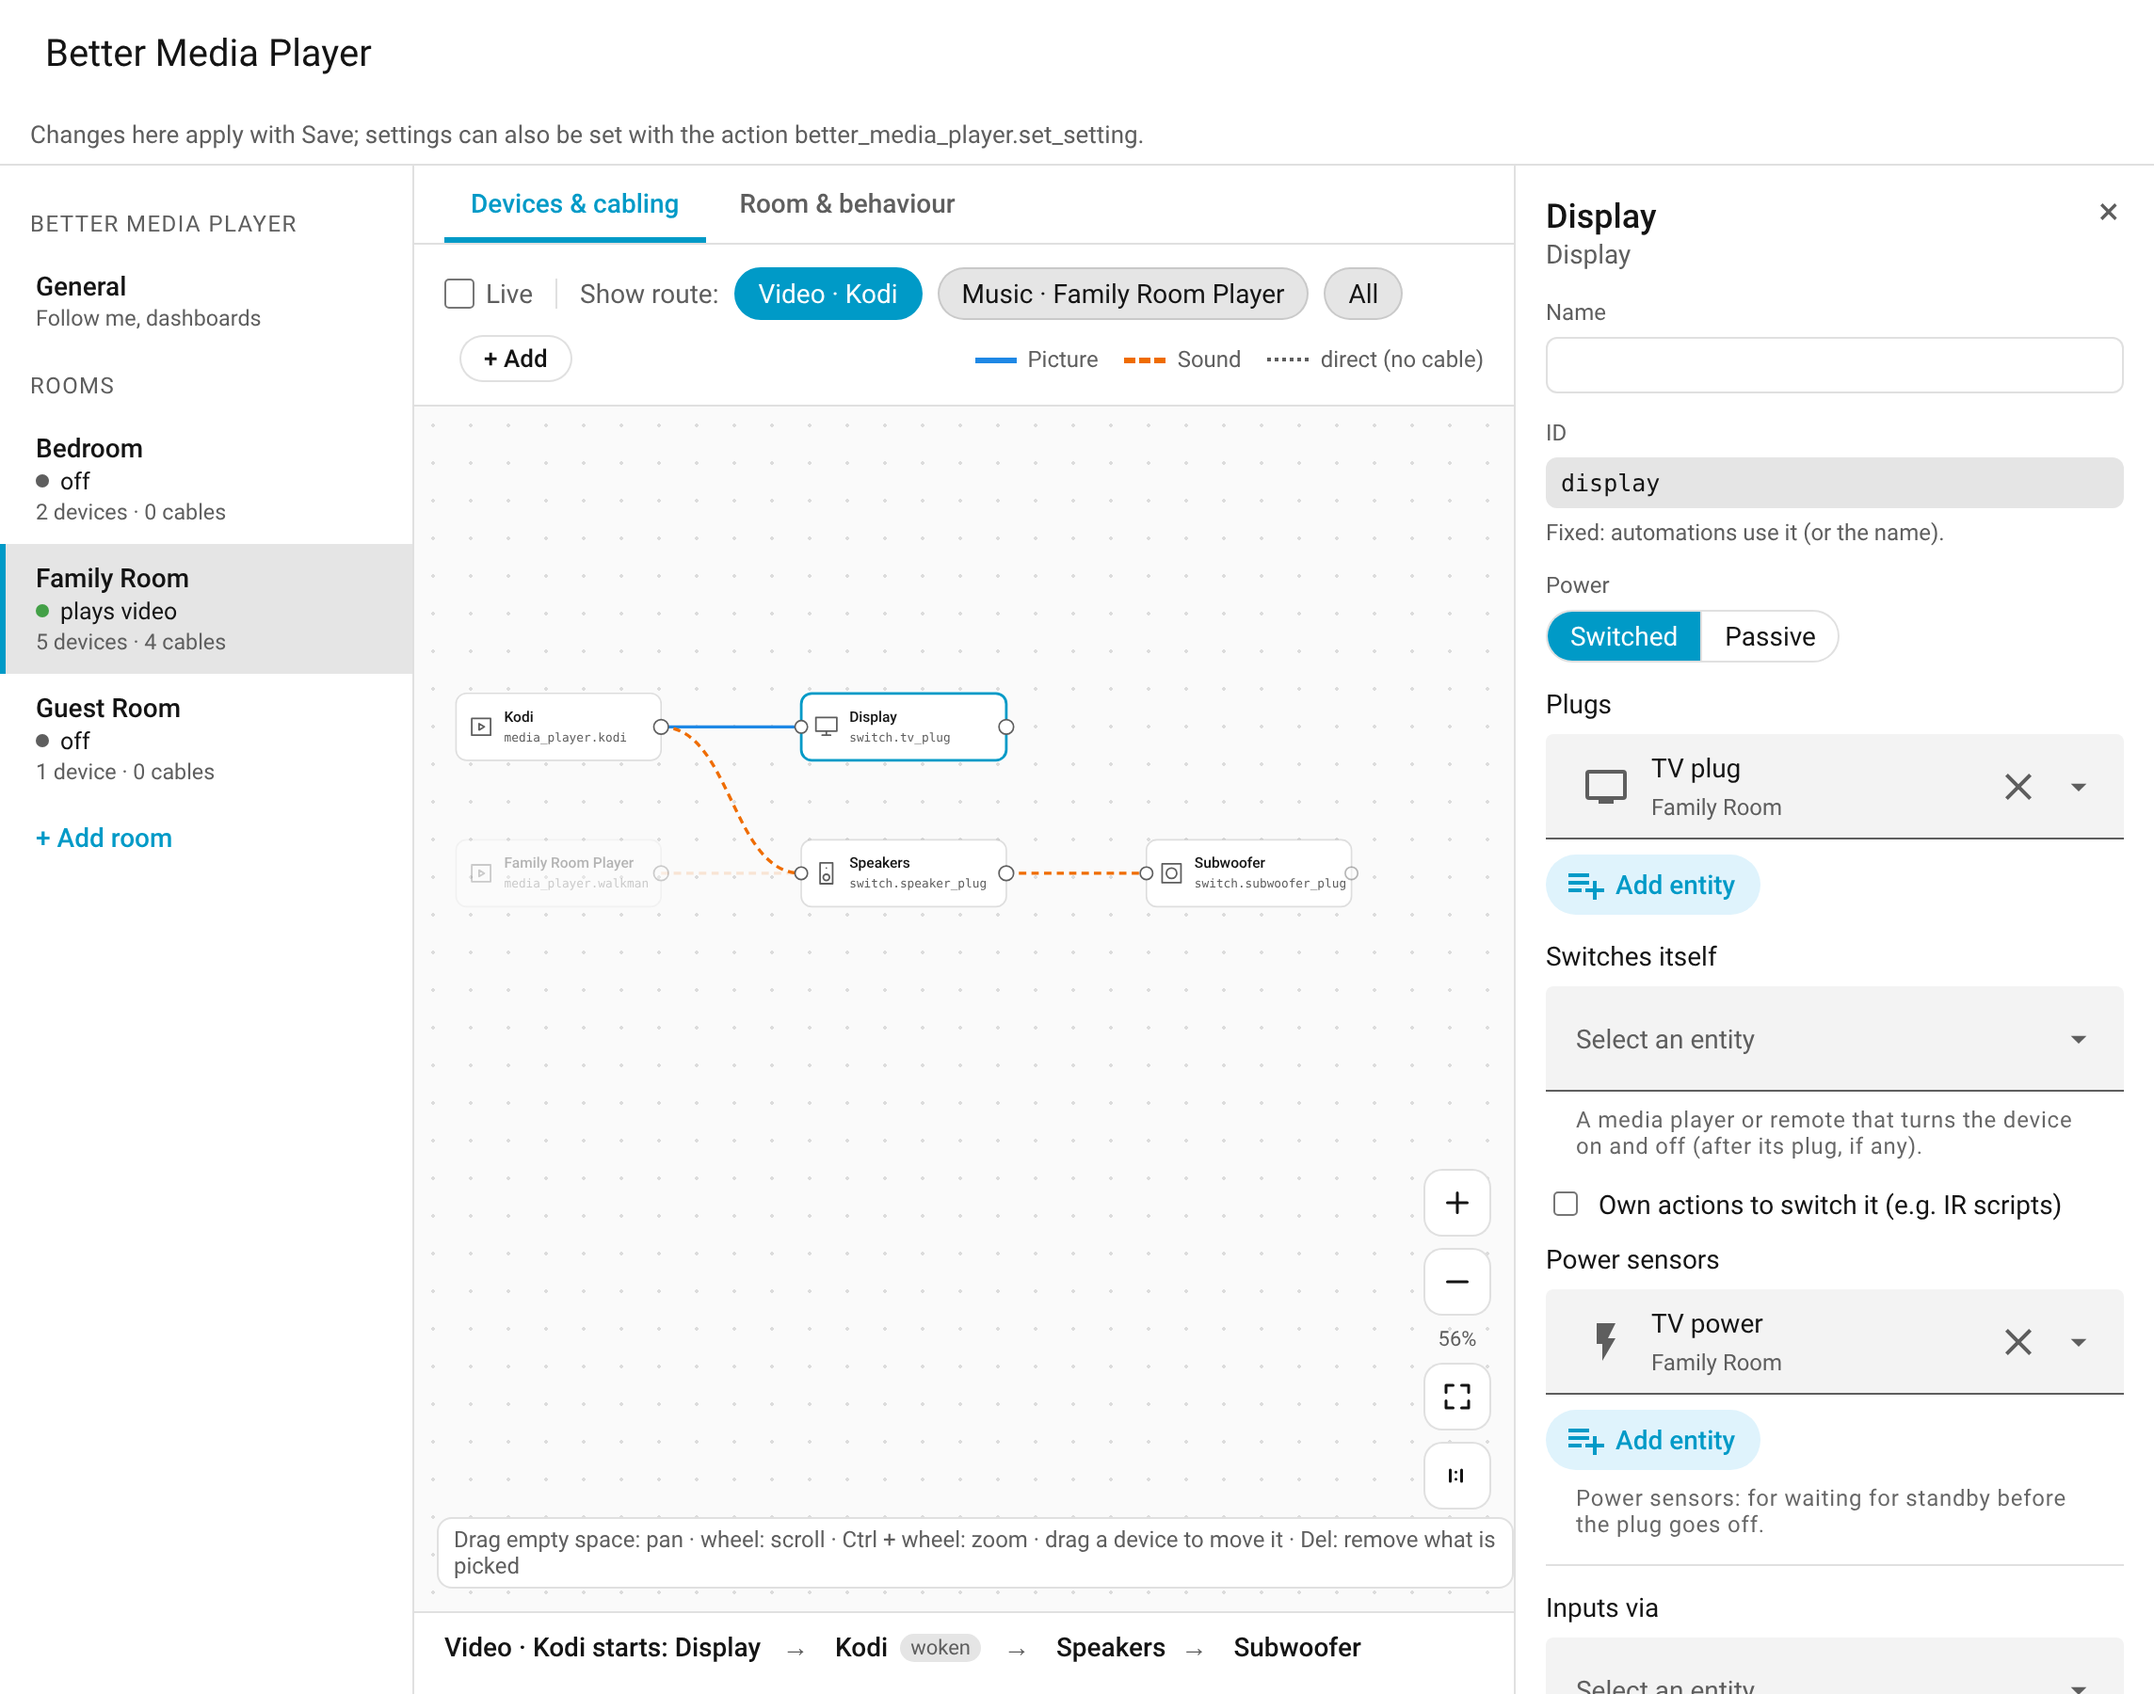
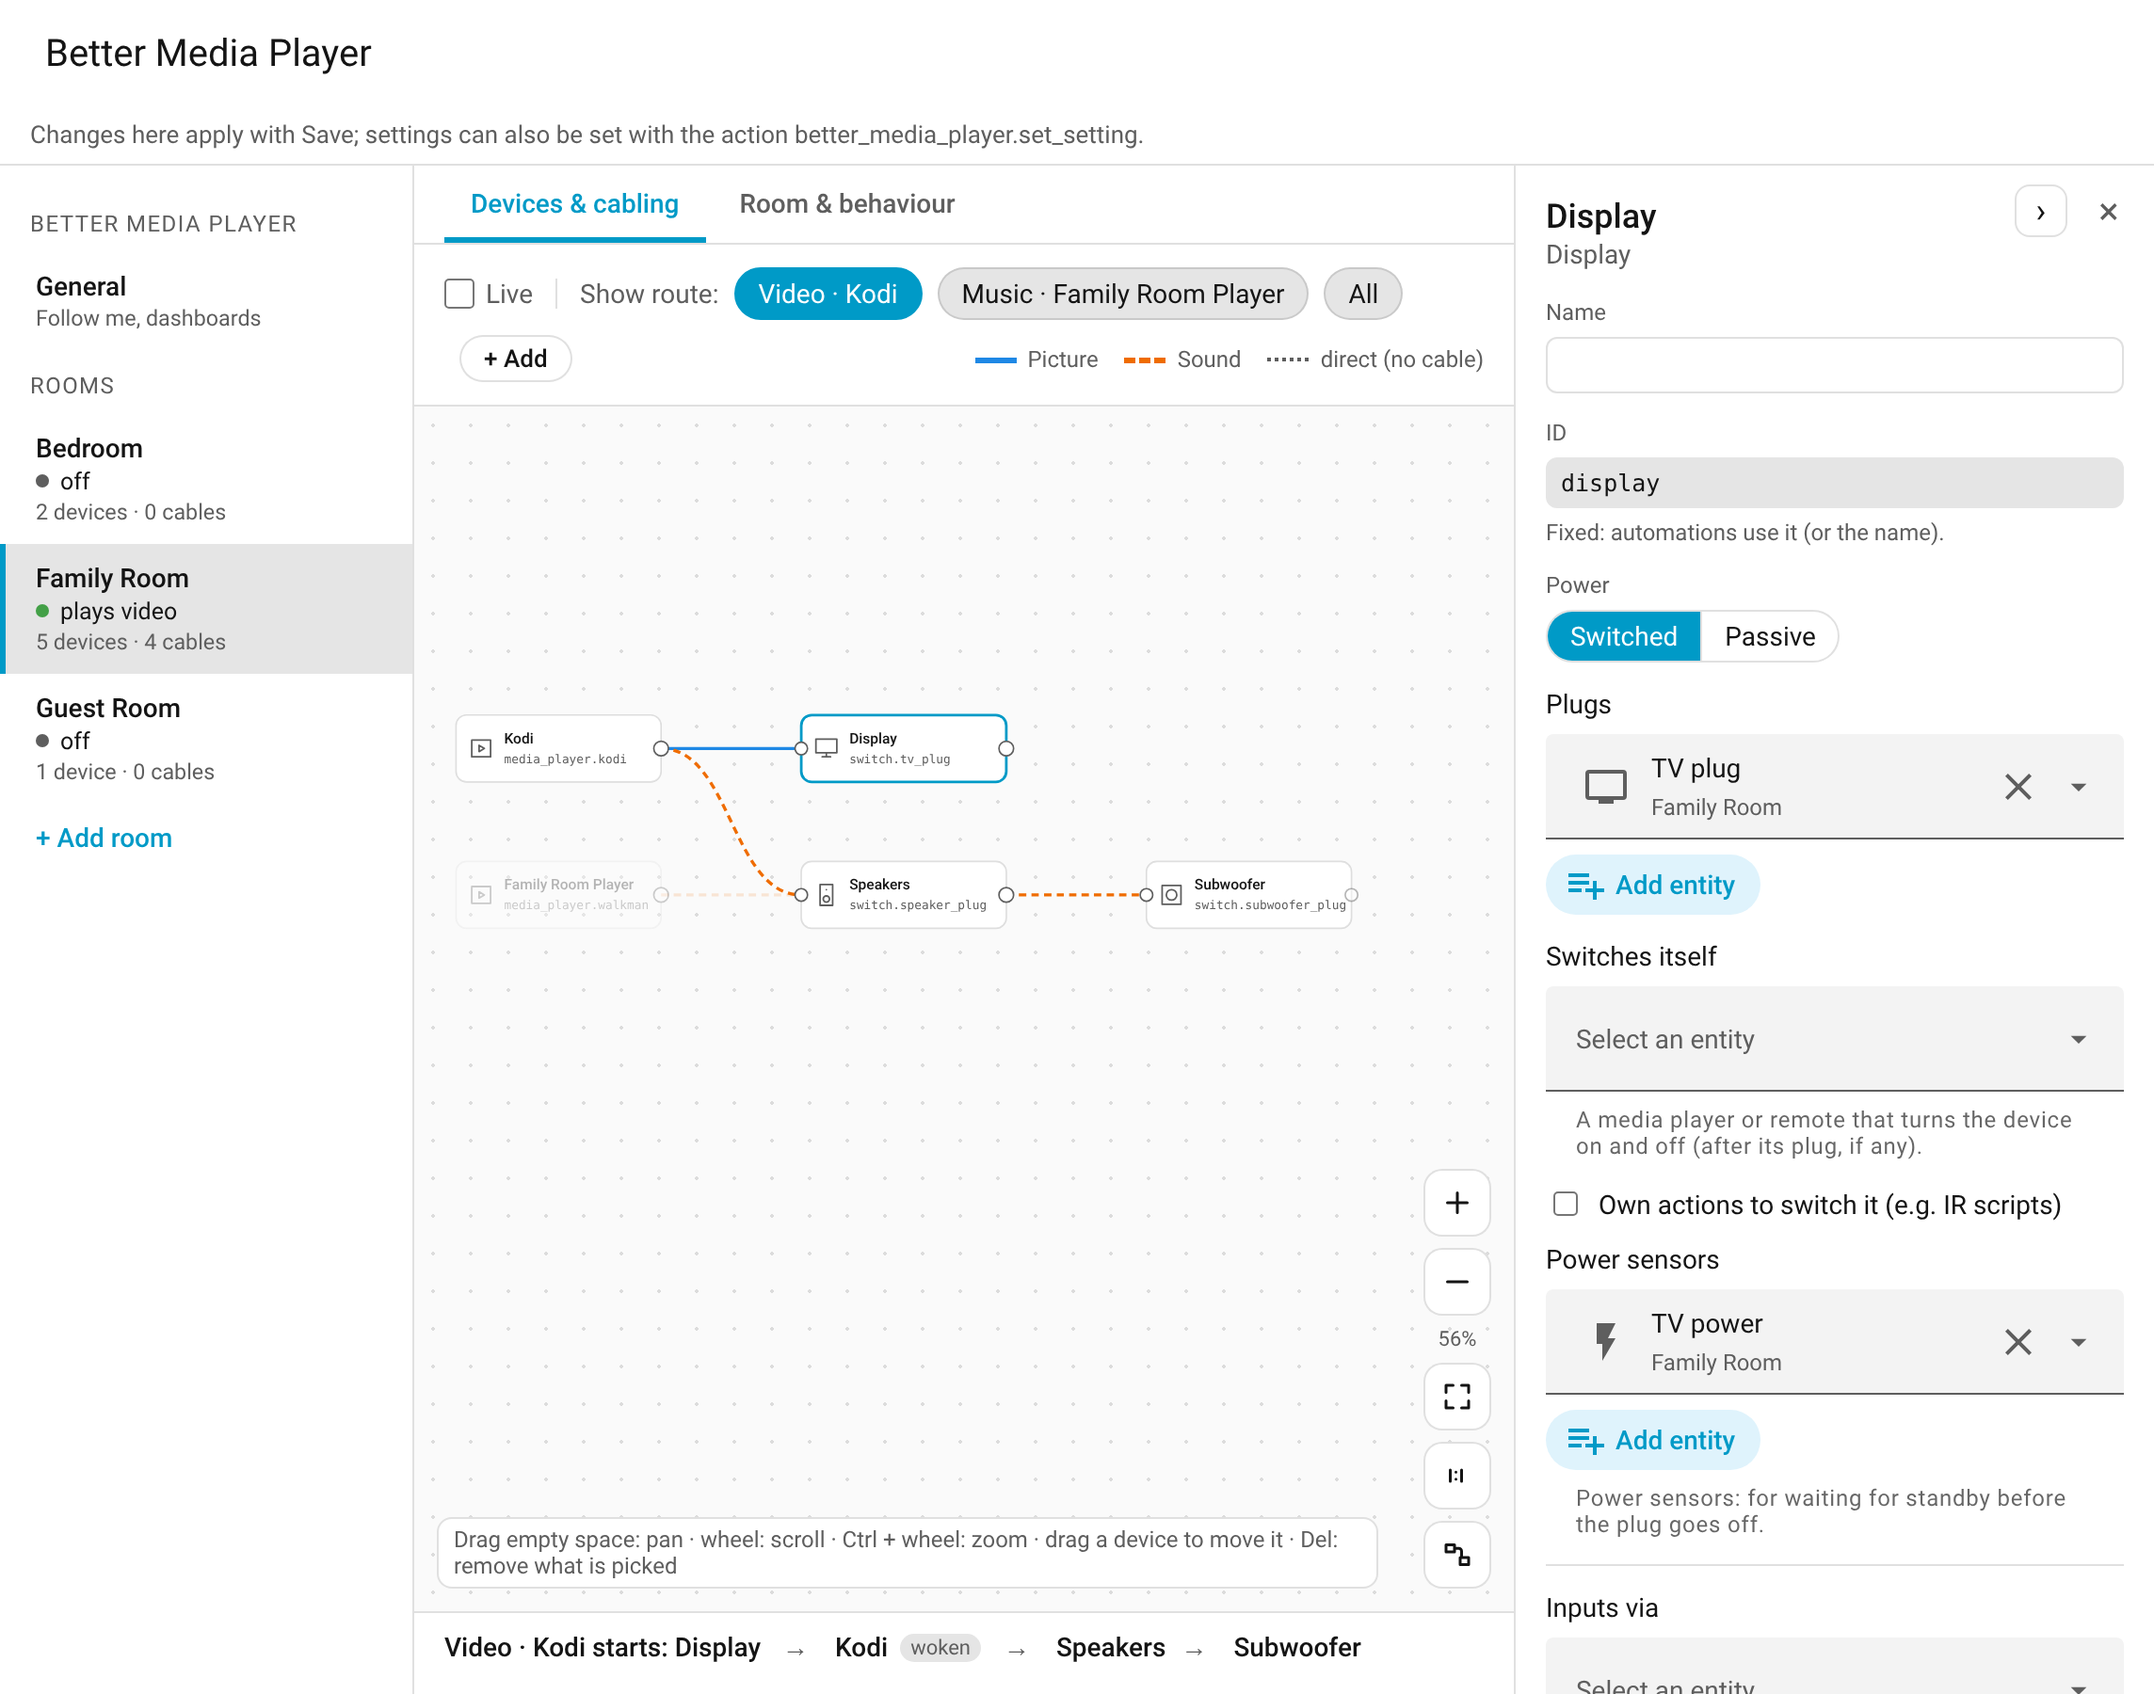
Docs: panel screenshots with the fold button and the hint beside the zoom
Claude-Session: https://claude.ai/code/session_01Mgztzm6dmHdgQHQYnCgpdp

diff --git a/README.md b/README.md
@@ -42,7 +42,7 @@ It is a custom integration in the spirit of Better Thermostat: you tell it what 
 
 A page of its own in Home Assistant's sidebar, where the rooms are set up: every room as a drawing – its players, its devices, how they are cabled, and what each player needs when it starts – with the details of each device and the room's settings, checked before they are saved. [More about the panel](https://github.com/financelurker/ha-better-media-player/blob/main/docs/designer.md).
 
-![The panel: a room's devices and cables, the video's route highlighted](https://raw.githubusercontent.com/financelurker/ha-better-media-player/main/docs/images/panel.png?v=9661b50aa6)
+![The panel: a room's devices and cables, the video's route highlighted](https://raw.githubusercontent.com/financelurker/ha-better-media-player/main/docs/images/panel.png?v=837b2d47d1)
 
 ## Is it for you?
 
